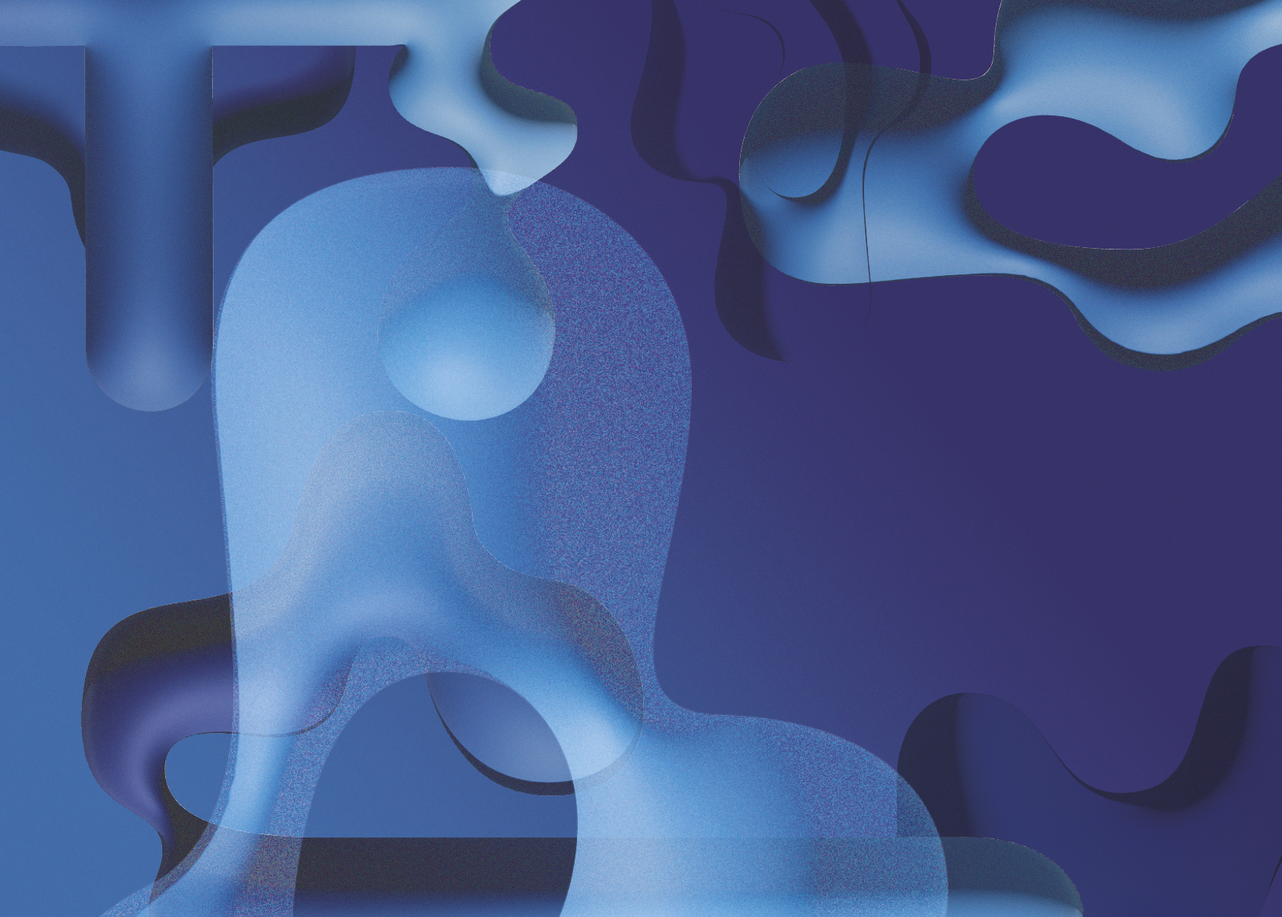
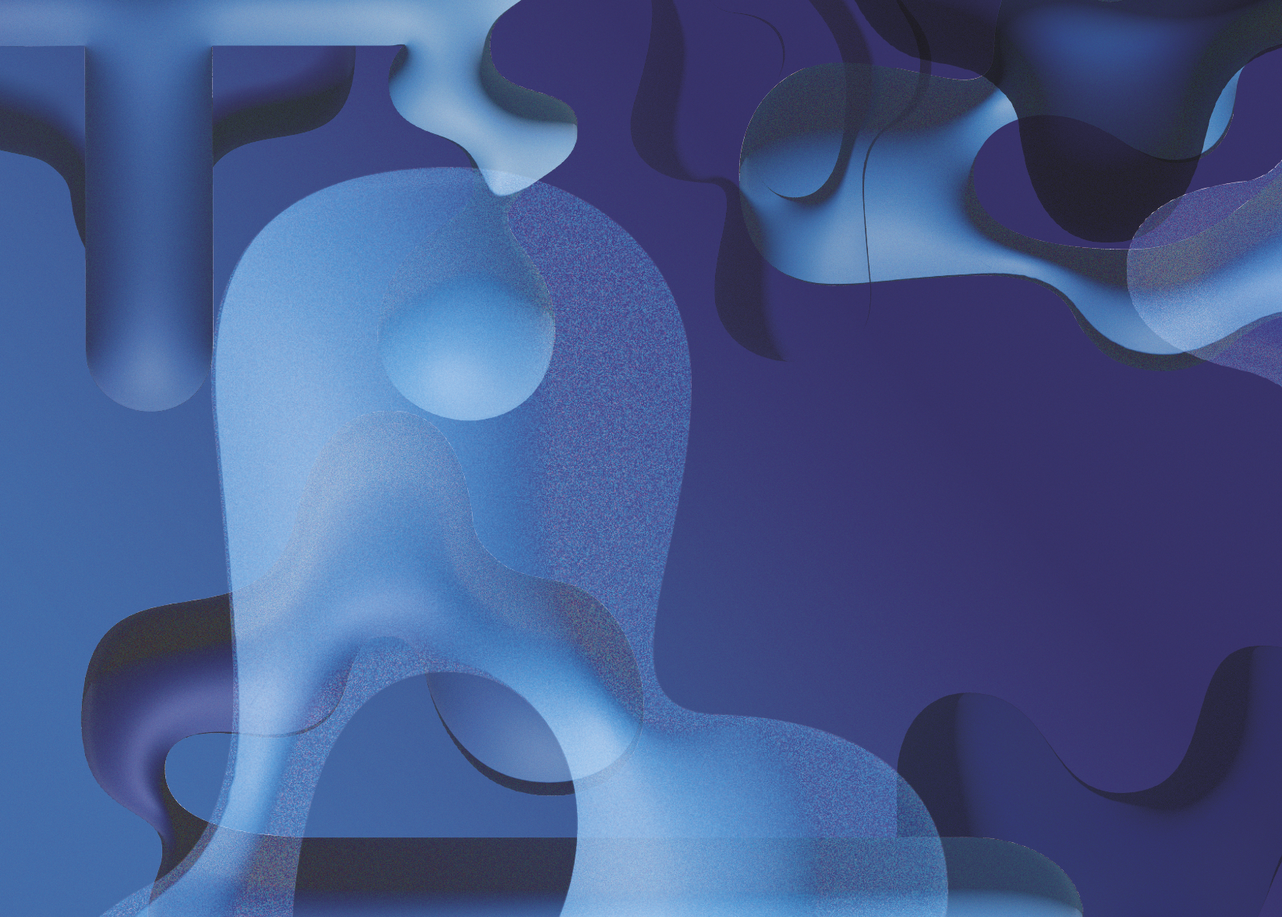
mise en page+ ajout de l affiche

Changed region(s): [[0.6515, 0.0, 1.0, 0.4286]]

diff --git a/dua.html b/dua.html
@@ -6,19 +6,25 @@
 	<meta name="viewport" content="width=device-width, initial-scale=1.0">
 	<title>Document</title>
 	<link rel="stylesheet" href="style.css">
+	<link rel="stylesheet" href="artiste.css">
+
 </head>
 
 <body>
+	<a href="index.html" class="back">✖</a>
 	<section id="grid">
-		<div class="info"><h1>Dua Lipa</h1>
+		<div class="info"><h1>Dua</h1><h1 style="text-align: right;">Lipa</h1>
 		<h2>Jeune artiste pop britannique. Son dernier album "futur nostalgia" mélange de sonorités des années 80' avec celles de nos jours</h2></div>
 		<img
         class="img"
-        src="./assets/img/dua.jpeg"
+        src="./assets/img/MicrosoftTeams-image.png"
         alt="dua lipa dans une voiture"
       />
+	  <img class="forme gauche"  src="./assets/img/forme gauche.png"/>
+
+	  <img class="forme droite" src="./assets/img/forme droite.png"/>
 	</section>
-	<iframe width="100%" height="166" scrolling="no" frameborder="no" allow="autoplay" src="https://w.soundcloud.com/player/?url=https%3A//api.soundcloud.com/tracks/332239193&color=%23ff5500&auto_play=false&hide_related=false&show_comments=true&show_user=true&show_reposts=false&show_teaser=true"></iframe>
+	<iframe style="z-index: 10000;" width="100%" height="166" scrolling="no" frameborder="no" allow="autoplay" src="https://w.soundcloud.com/player/?url=https%3A//api.soundcloud.com/tracks/332239193&color=%23ff5500&auto_play=false&hide_related=false&show_comments=true&show_user=true&show_reposts=false&show_teaser=true"></iframe>
 	<footer>
 	</footer>
 	<script src="app.js">

diff --git a/hassani.html b/hassani.html
@@ -6,17 +6,21 @@
 	<meta name="viewport" content="width=device-width, initial-scale=1.0">
 	<title>Document</title>
 	<link rel="stylesheet" href="style.css">
+	<link rel="stylesheet" href="artiste.css">
 </head>
 
 <body>
 	<section id="grid">
-		<div class="info"><h1>Hay Hassani Boyz Klub</h1>
+		<div class="info"><h1>Hay Hassani</h1> <h1>Boyz Klub</h1>
 		<h2> duo de rappeurs Lausannnois originaire de Casablanca composé de 2 cousin k.le 11 à la voix et lilbastoz à la production</h2></div>
 		<img
         class="img"
-        src="./assets/img/hassani.jpg"
+        src="./assets/img/MicrosoftTeams-image (1).png"
         alt="portrait noir blanc de david august"
       />
+	  <img class="forme gauche"  src="./assets/img/forme gauche.png"/>
+
+	  <img class="forme droite" src="./assets/img/forme droite.png"/>
 	</section>
 	<iframe width="100%" height="166" scrolling="no" frameborder="no" allow="autoplay" src="https://w.soundcloud.com/player/?url=https%3A//api.soundcloud.com/tracks/1054789981&color=%23ff5500&auto_play=false&hide_related=false&show_comments=true&show_user=true&show_reposts=false&show_teaser=true"></iframe>
 	<footer>

diff --git a/artiste.css b/artiste.css
@@ -1,12 +1,15 @@
 body {
 	align-items: center;
 	font-family: "Bluu", Arial, sans-serif;
-	background-color: #c76e08;
 	display: flex;
 	flex-direction: column;
 	justify-content: center;
 	height: 100vh;
 	margin: 0;
+	background-image: url('assets/img/final_affiche_bleu_horizontal\ \(1\).png') !important;
+	background-size: cover;
+	overflow: hidden;
+	color: yellow !important;
 }
 #grid{
 	display: flex;
@@ -29,6 +32,7 @@ h1 {
   grid-row-end: 3;
   grid-column-start: 1;
   grid-column-end: 2;
+  text-transform: uppercase;
 	
 }
 
@@ -43,6 +47,28 @@ h2 {
 	
 }
 
+.forme.gauche {
+	position: absolute;
+	top: 0;
+	left: 0;
+}
+
+.forme.droite {
+	position: absolute;
+	top: 0;
+	right: 0;
+}
+
+.back {
+	position: fixed;
+	top: 5vh;
+	right: 3vh;
+	z-index: 100000;
+	text-decoration: none;
+	font-size: 50px;
+	color: inherit;
+}
+
 section {
 	max-width: 80vw;
 	text-align: left;
@@ -52,8 +78,7 @@ section {
   grid-column-end: 3;
 }
 .img {
-	height: 600px;
-	width: 600px;
+	
 	grid-row-start: 1;
 	grid-row-end: 4;
 	grid-column-start: 3;

diff --git a/rolando.html b/rolando.html
@@ -6,6 +6,7 @@
 	<meta name="viewport" content="width=device-width, initial-scale=1.0">
 	<title>Document</title>
 	<link rel="stylesheet" href="style.css">
+	<link rel="stylesheet" href="artiste.css">
 </head>
 
 <body>
@@ -14,9 +15,12 @@
 		<h2>artiste français loufoque de techno  kitsch</h2></div>
 		<img
         class="img"
-        src="./assets/img/roland cristal.jpeg"
+        src="./assets/img/MicrosoftTeams-image (5).png"
         alt="trois roland cristal sur un fond psychédelique"
       />
+	  <img class="forme gauche"  src="./assets/img/forme gauche.png"/>
+
+	  <img class="forme droite" src="./assets/img/forme droite.png"/>
 	</section>
 	<iframe width="100%" height="166" scrolling="no" frameborder="no" allow="autoplay" src="https://w.soundcloud.com/player/?url=https%3A//api.soundcloud.com/tracks/386073941&color=%23ff5500&auto_play=false&hide_related=false&show_comments=true&show_user=true&show_reposts=false&show_teaser=true"></iframe>
 	<footer>

diff --git a/style.css b/style.css
@@ -2,22 +2,26 @@
 body {
 	align-items: center;
 	font-family: "Bluu", Arial, sans-serif;
-	background-color: #c76e08;
 	display: flex;
 	flex-direction: column;
 	justify-content: center;
 	height: 100vh;
 	margin: 0;
-	background-image: url('final_affiche_bleu_horizontal');
+
 }
 #grid{
 	display: flex;
     flex-direction: row;
     align-items: center;
+	z-index: 800;
 }
 
 .info, .img {
     flex: 1;
+}
+
+.info {
+	z-index: 800;
 }
 
 
@@ -54,8 +58,7 @@ section {
   grid-column-end: 3;
 }
 .img {
-	height: 600px;
-	width: 600px;
+
 	grid-row-start: 1;
 	grid-row-end: 4;
 	grid-column-start: 3;

diff --git a/medine.html b/medine.html
@@ -6,6 +6,7 @@
 	<meta name="viewport" content="width=device-width, initial-scale=1.0">
 	<title>Document</title>
 	<link rel="stylesheet" href="style.css">
+	<link rel="stylesheet" href="artiste.css">
 </head>
 
 <body>
